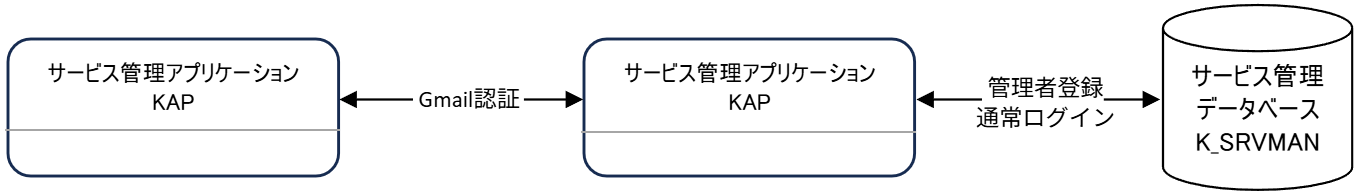
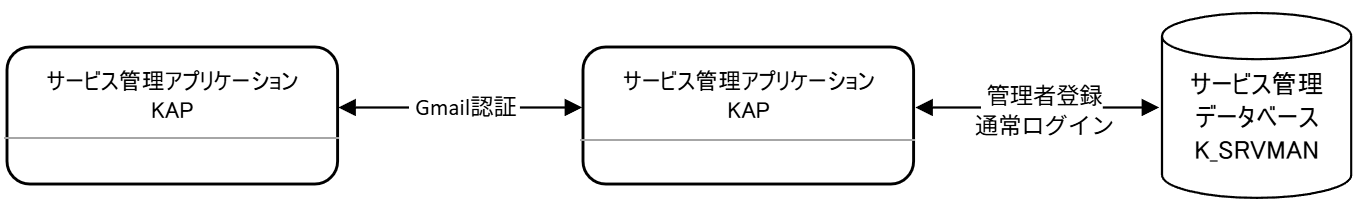
gmail認証対応、テーブル定義修正

diff --git a/docs/01_overview_spec.md b/docs/01_overview_spec.md
@@ -212,7 +212,7 @@
     7. サービス管理シスムテはメイン画面を表示する。
 
 拡張シナリオ
-:   4a. Google認証に失敗した場合Google認証システムは認証失敗を表示する。<br>
+:   4a. Google認証に失敗した場合Google認証システムは認証失敗を表示する。
     5a. サービス管理システムは、トップ画面を表示する。
 
 成功時保証
@@ -234,13 +234,13 @@
     5. 管理者は発行されたトークンをコンソールで目視する。
     5. 管理者は受信した認証URLへアクセスする。
     6. 管理者は、URLアクセス先で発行されたトークンを入力する。
-    7. サービス管理システムは、トークンおよび有効期限を検証する。
+    7. サービス管理システムはトークン、有効期限、試行回数を検証する。
     8. サービス管理システムは、ユーザー情報を登録する。
     9. 管理者はユーザー情報を確認する。
 
 拡張シナリオ
-:   7a. トークンが不正な場合、サービス管理システムはエラーメッセージを表示する。<br>
-    7b. トークンの有効期限が切れている場合、サービス管理システムはエラーメッセージを表示する。<br>
+:   7a. トークンが不正な場合、サービス管理システムはエラーメッセージを表示する。
+    7b. トークンの有効期限が切れている場合、サービス管理システムはエラーメッセージを表示する。
     7c. トークン3回間違えた場合、サービス管理システムはエラーメッセージを表示して、トークン再発行を行う。
 
 成功時保障

diff --git a/docs/09_dbtable.md b/docs/09_dbtable.md
@@ -146,5 +146,6 @@
 | 1   | ユーザー名     | username   | VARCHAR(255) |      |                   |                           |
 | 2   | パスワード     | password   | VARCHAR(255) |      |                   | argon2でハッシュ化した文字列を格納 |
 | 3   | Gメール        | gmail      | VARCHAR(255) |      |                   |                           |
-| 4   | 認証キー       | token      | int      |      |                   |                           |
-| 5   | 有効期限       | expiration | TIMESTAMP  |      |CURRENT_TIMESTAMP<br> + INTERVAL '5 minutes'| 有効期限5分            |
+| 4   | 認証キー       | token      | INT      |      |                   |                           |
+| 5   | 有効期限       | expiration | TIMESTAMP  |      | CURRENT_TIMESTAMP<br> + INTERVAL '5 minutes' | 有効期限5分           |
+| 6   | 施行回数       | limit      | INT      |      |                   |                           |
